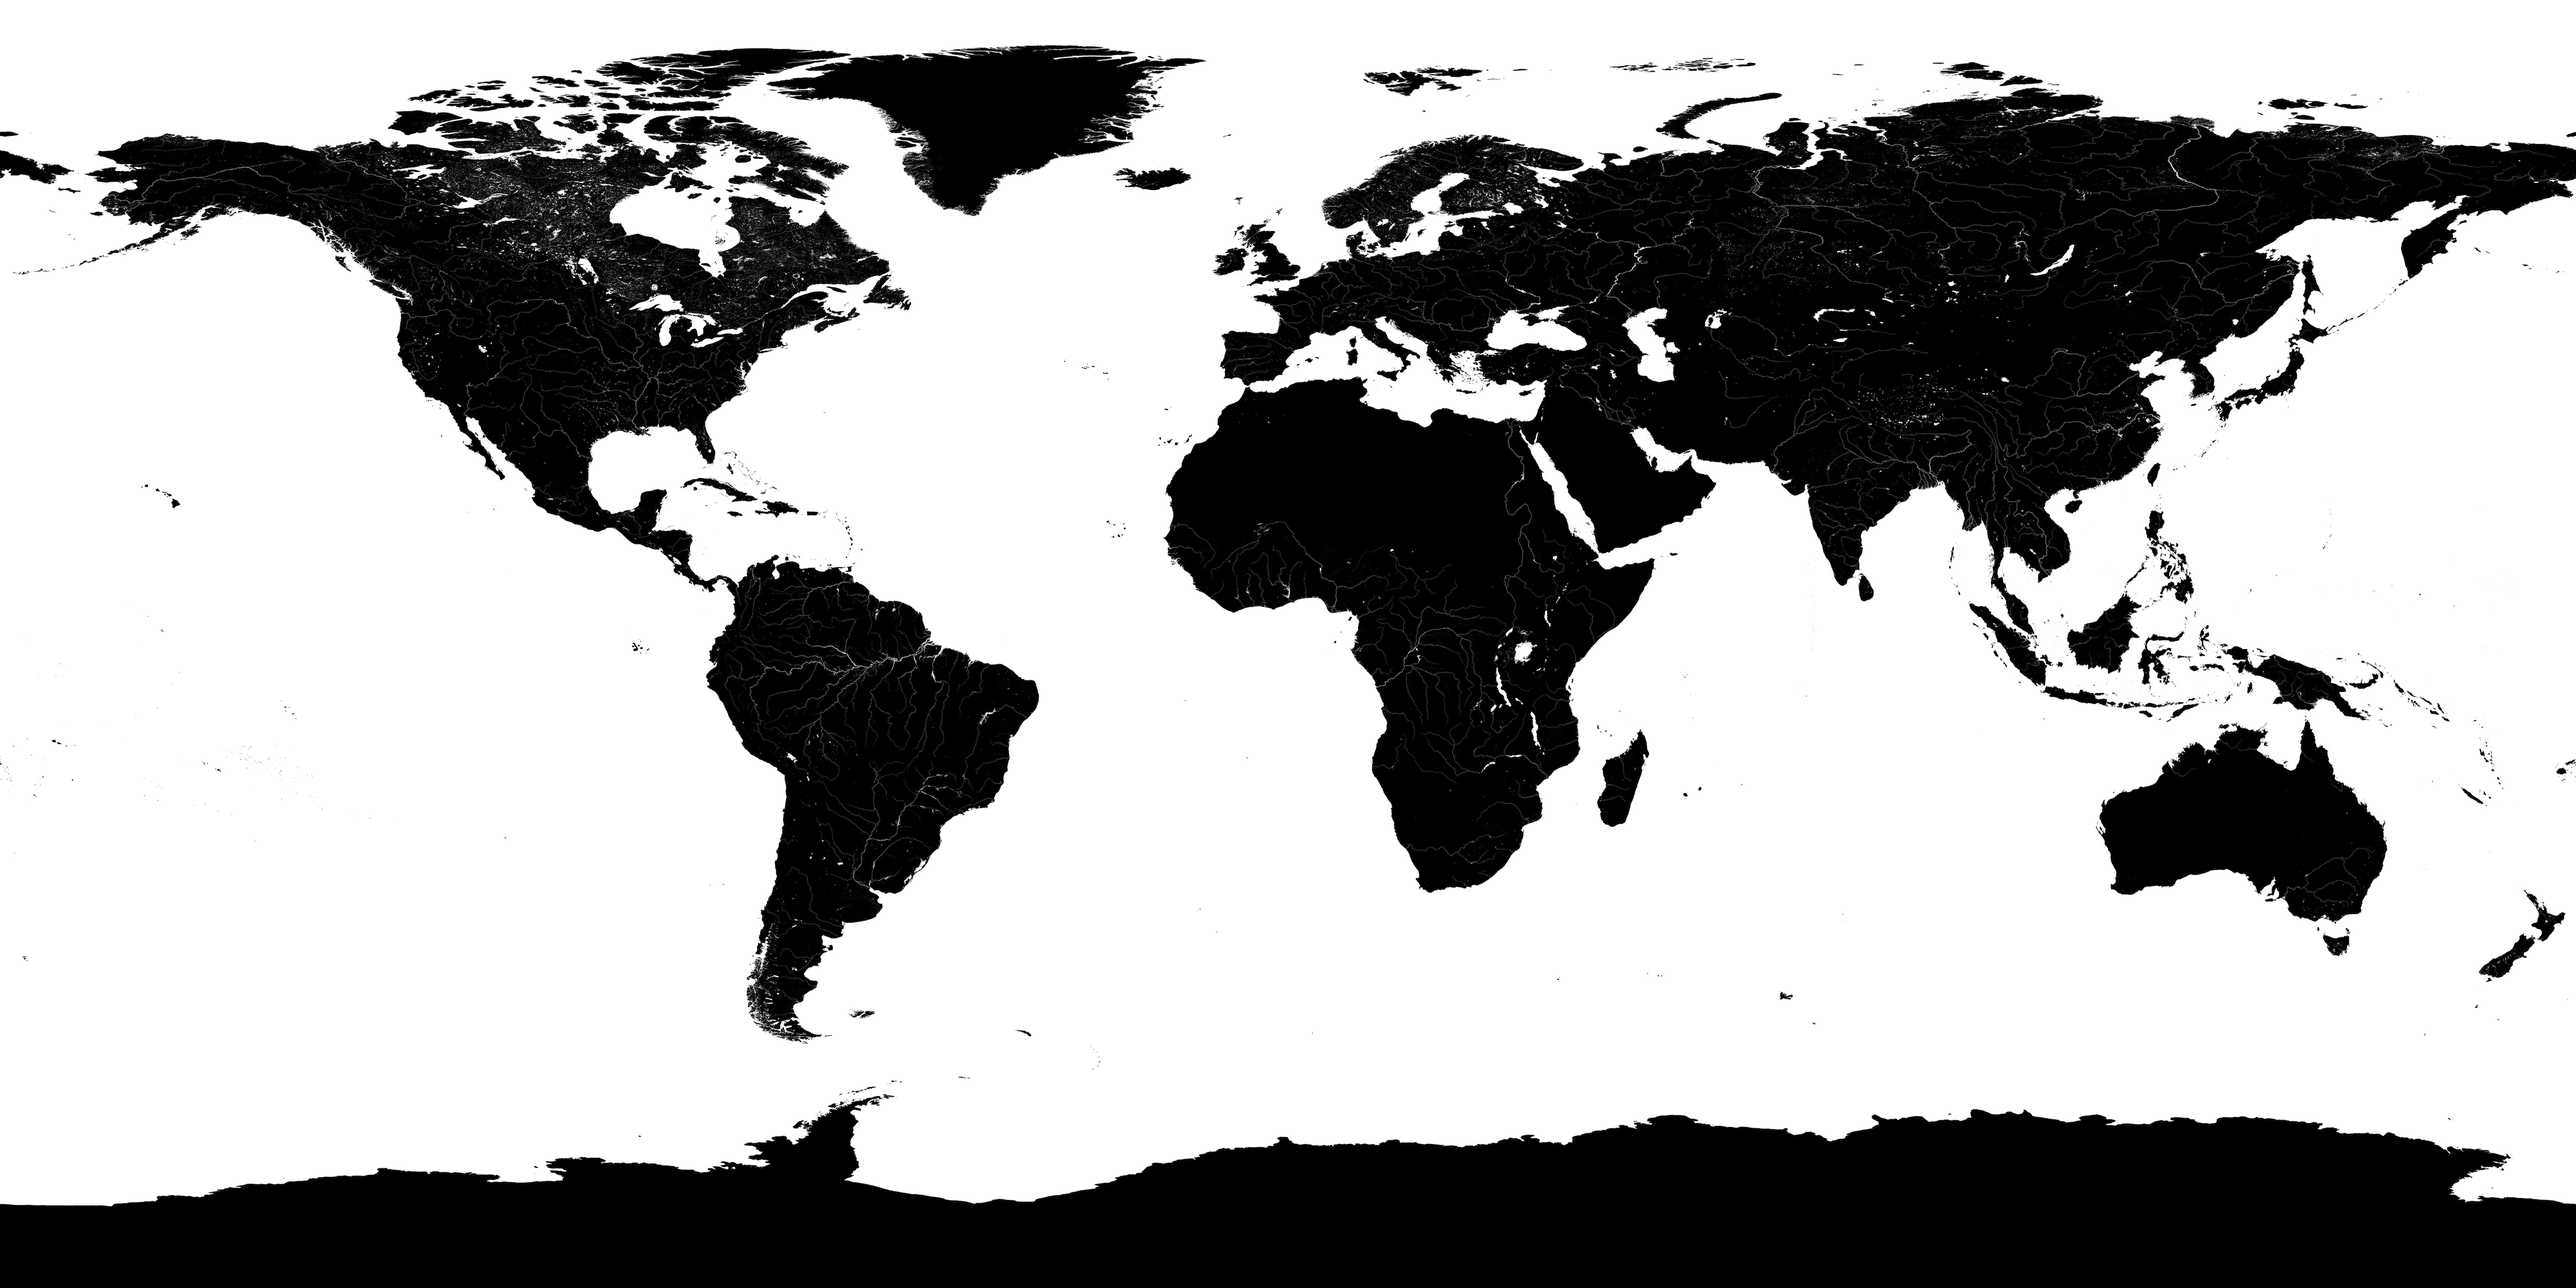
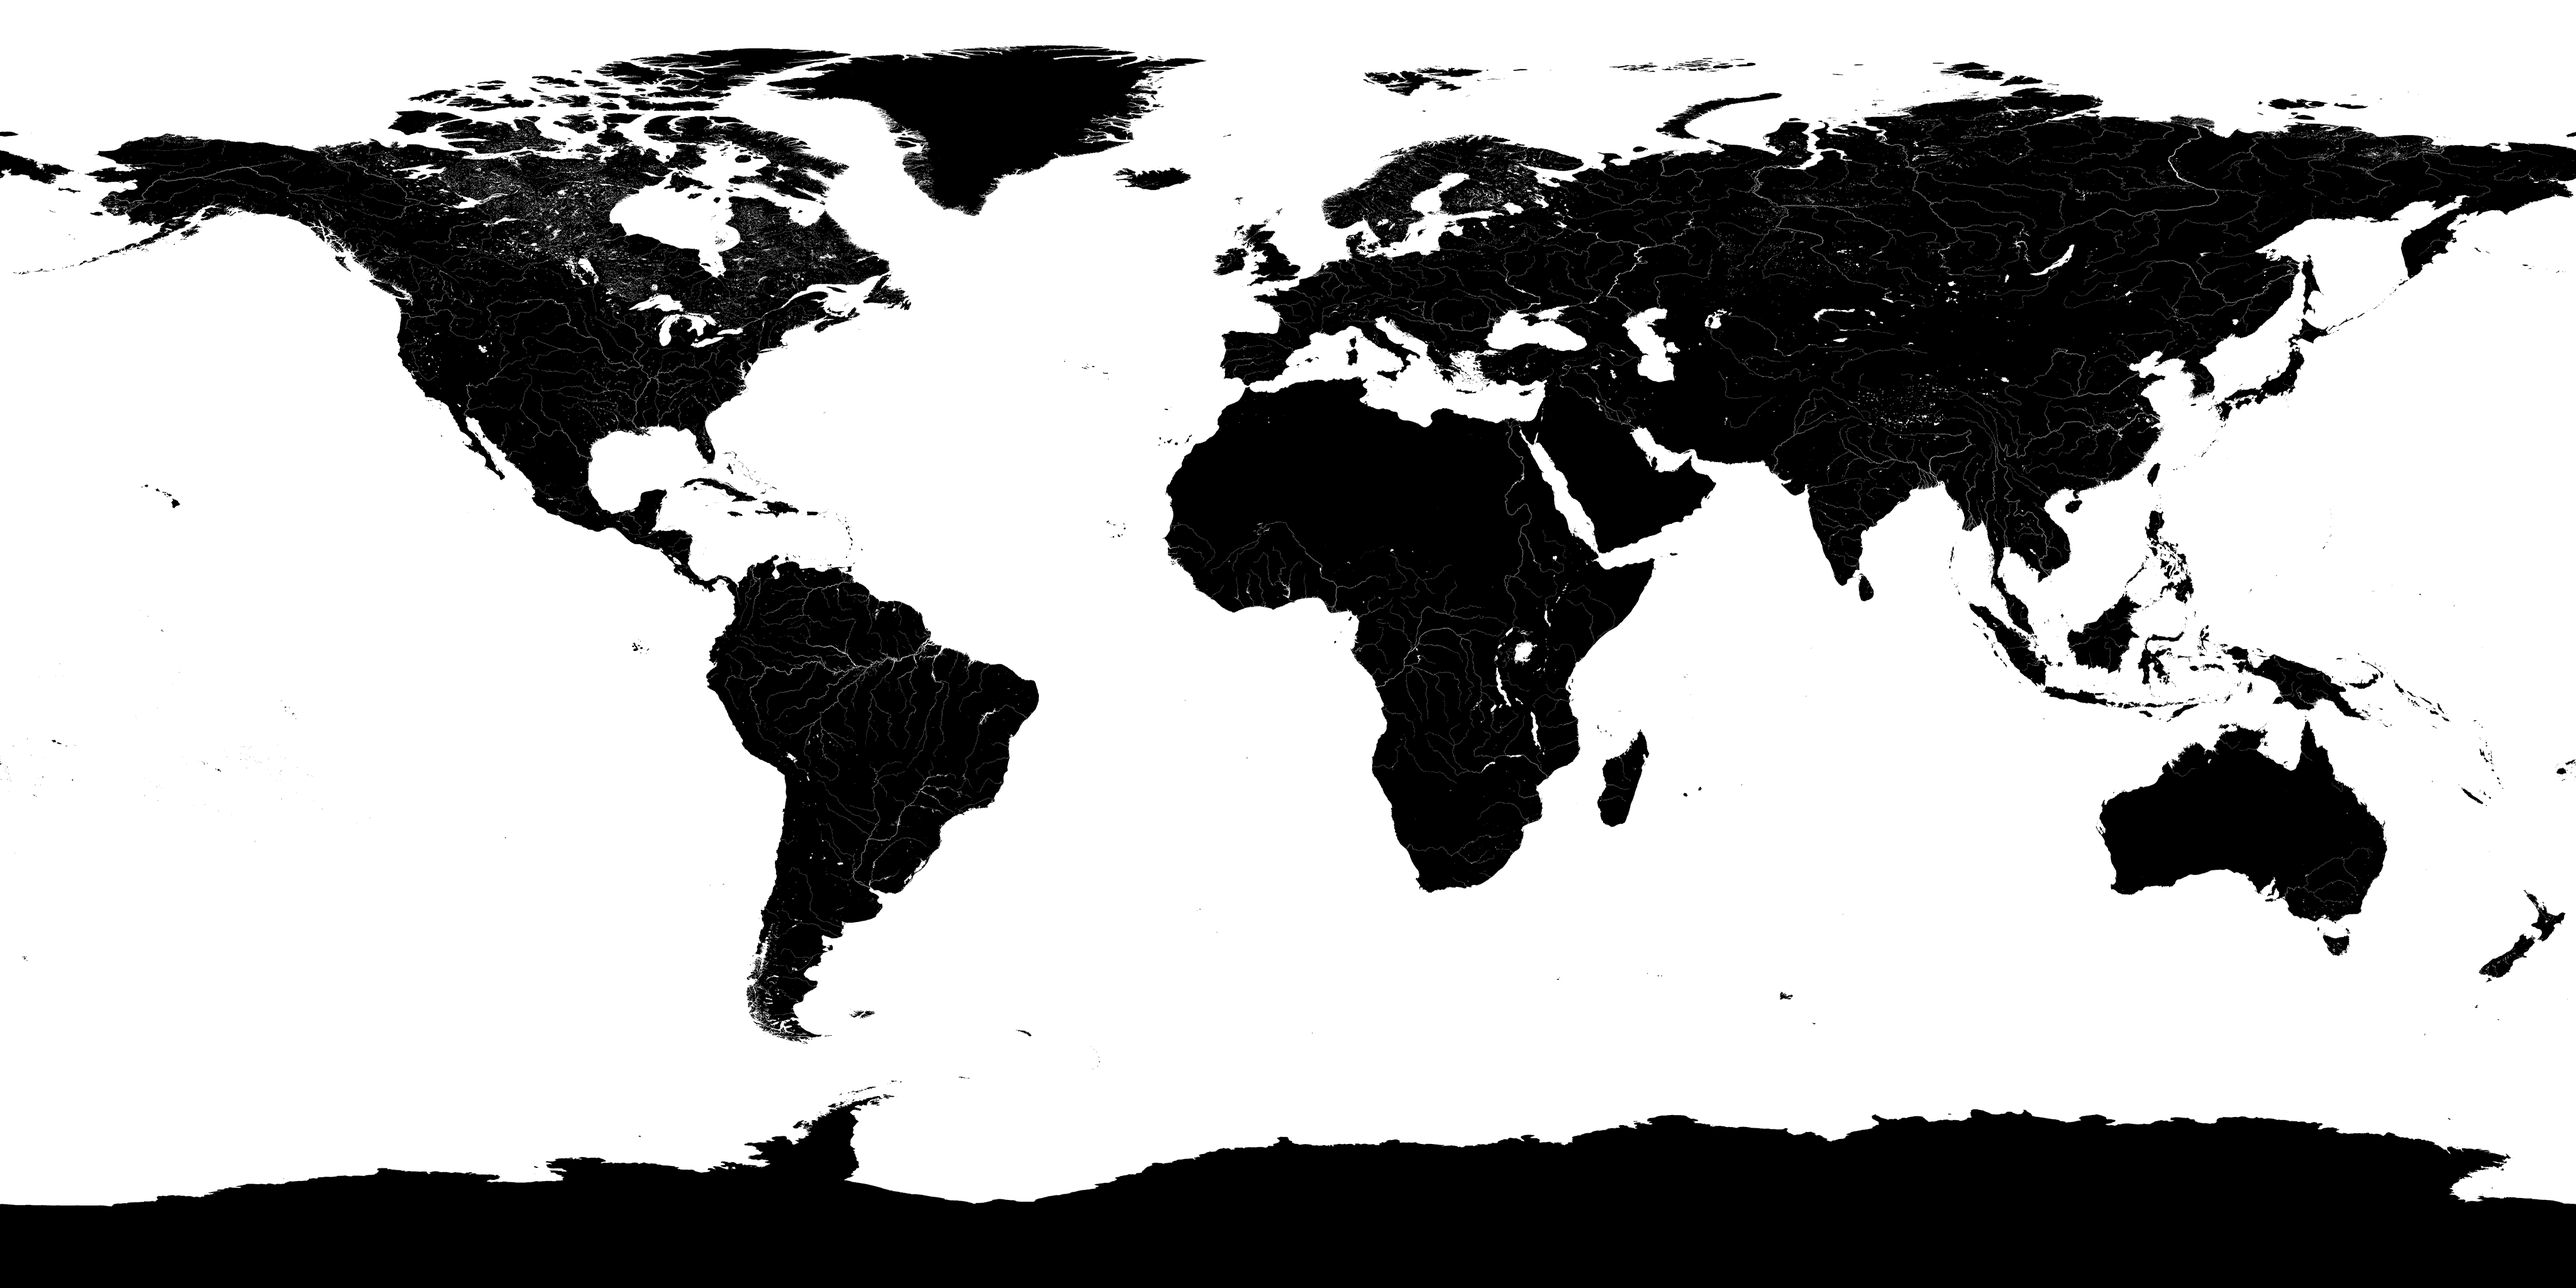
optimized images and added first layer to planet pulse

diff --git a/app/assets/javascripts/models/planet_layer_model.js b/app/assets/javascripts/models/planet_layer_model.js
@@ -1,0 +1,21 @@
+(function(App) {
+
+  'use strict';
+
+  App.Model.PlanetLayer = App.Core.Model.extend({
+
+    url: 'https://manuela-st.cartodb.com/api/v2/sql',
+
+    getDataParams: function(properties) {
+      return {
+        q: 'SELECT * FROM planetpulse WHERE slug=\'' + properties.slug + '\''
+      };
+    },
+
+    parse: function(data) {
+      return data.rows[0];
+    }
+
+  });
+
+}).call(this, this.App);
